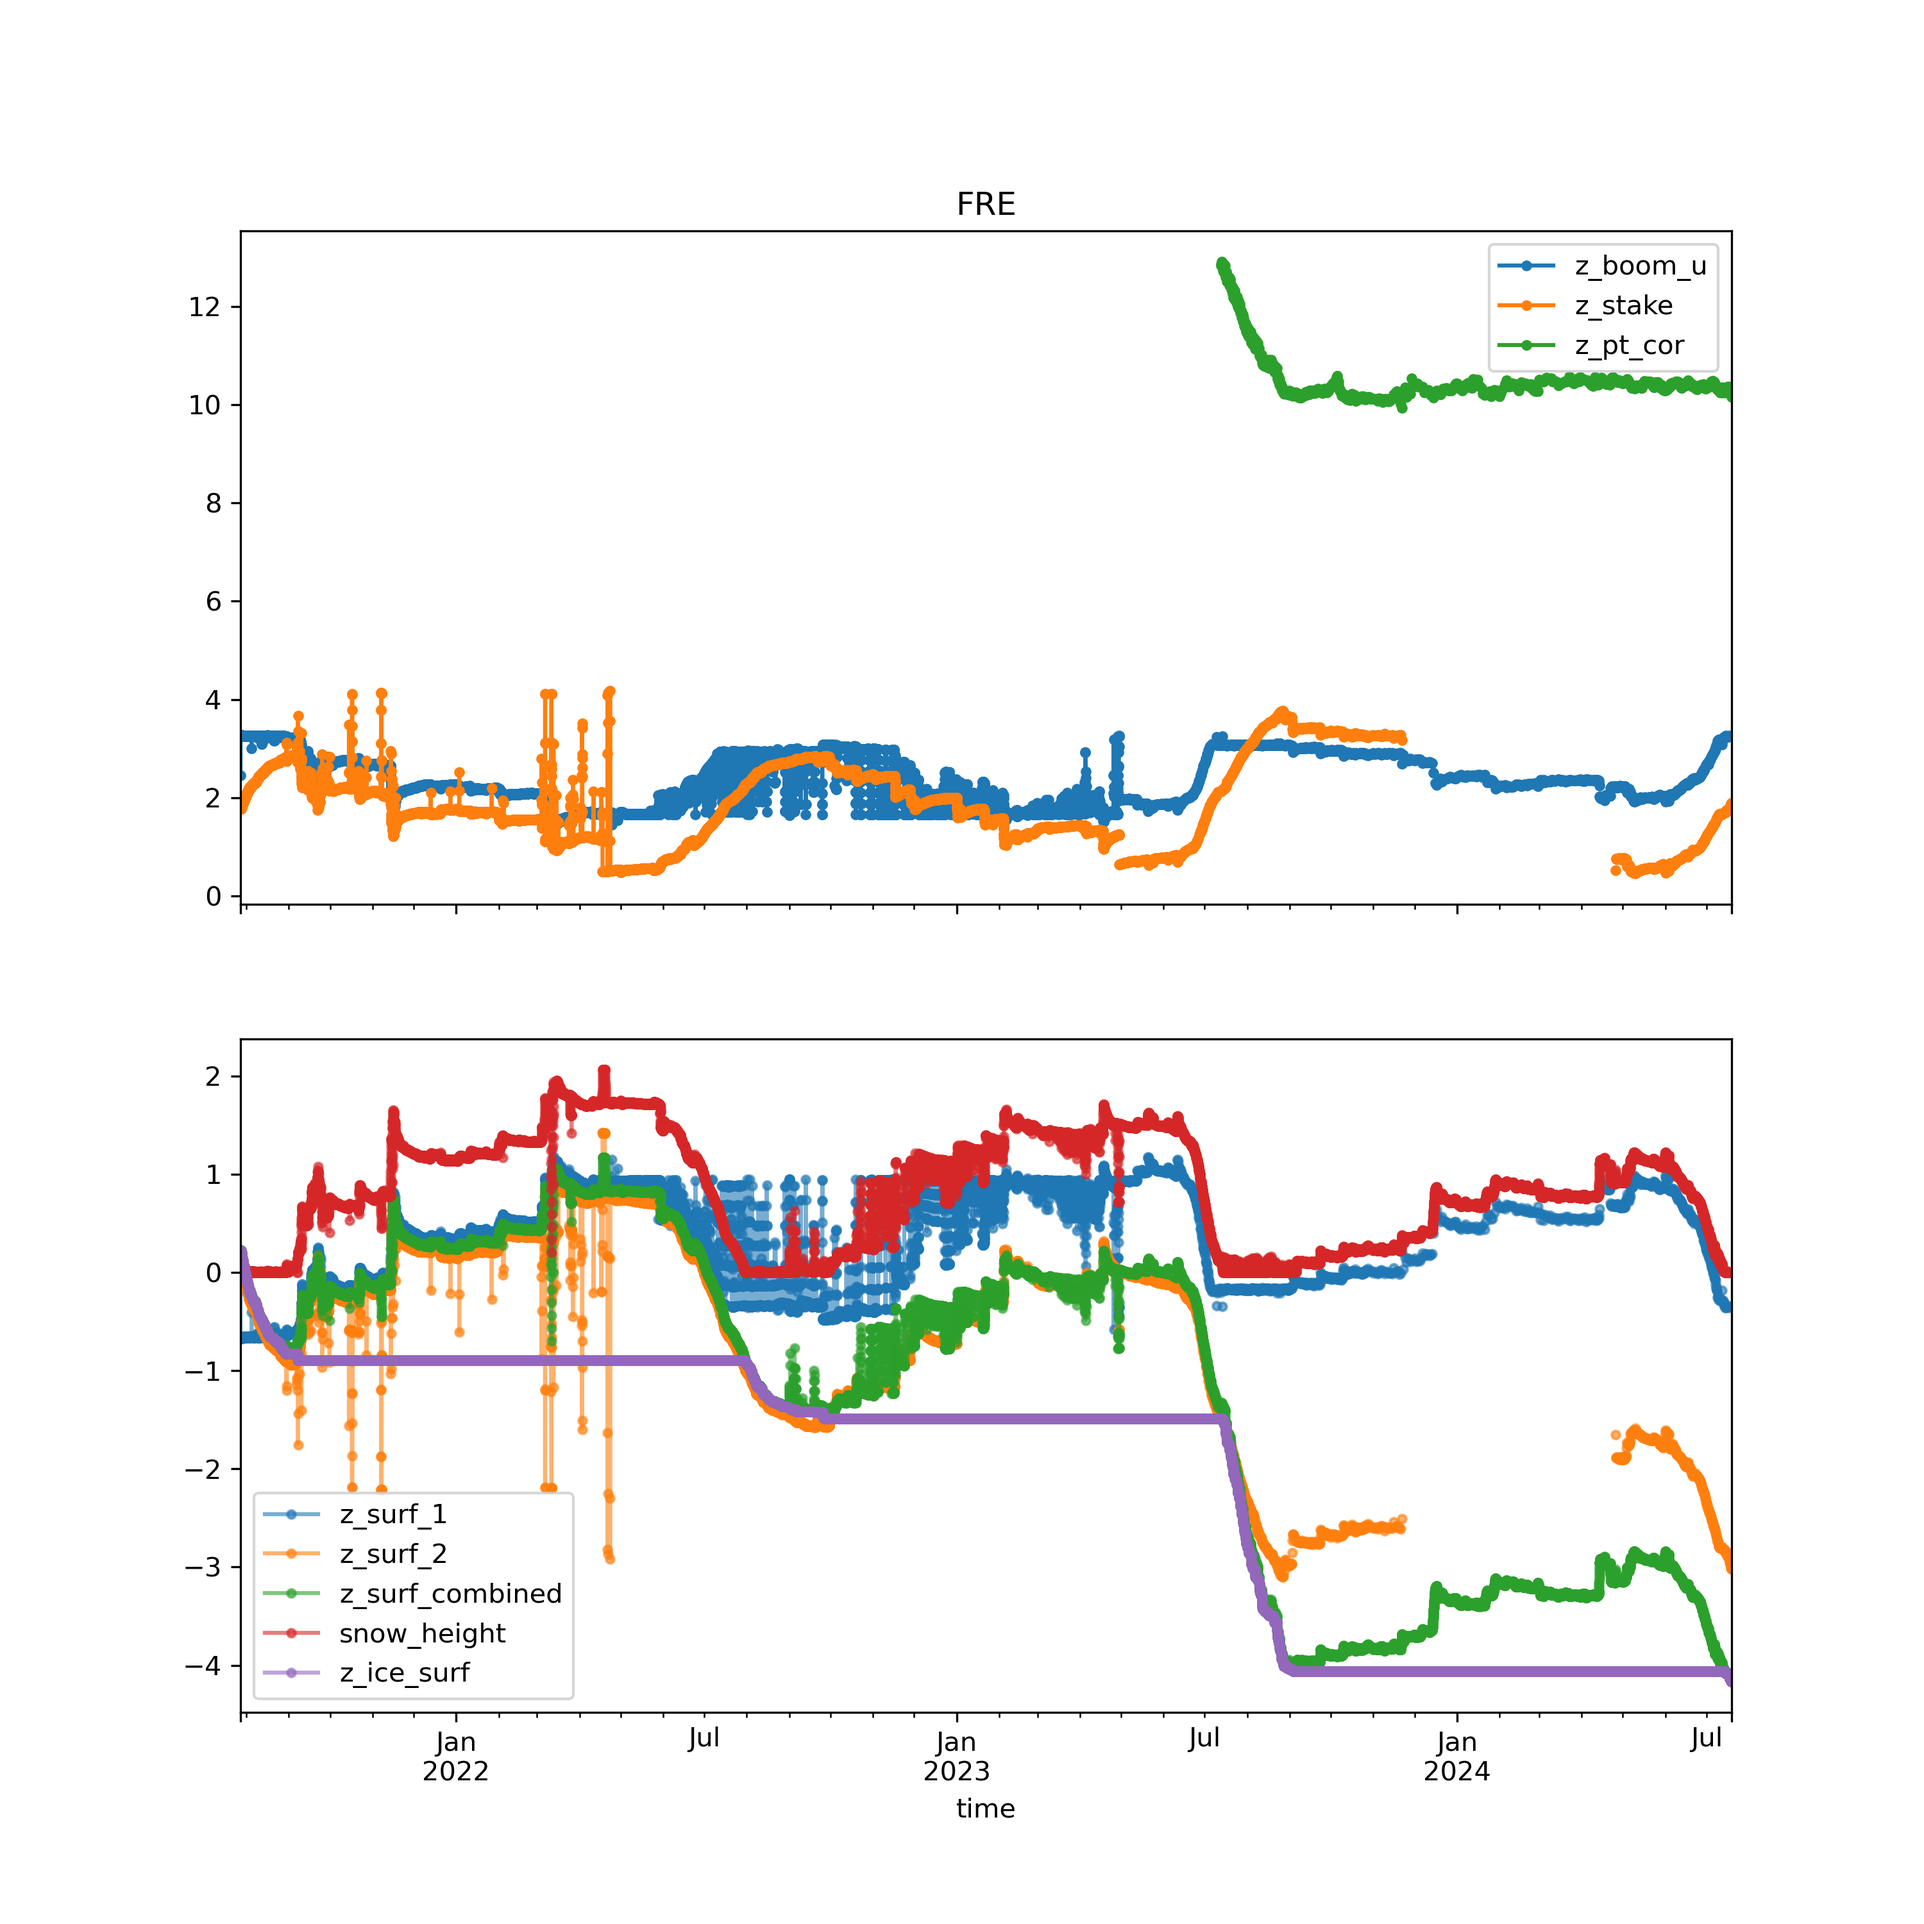
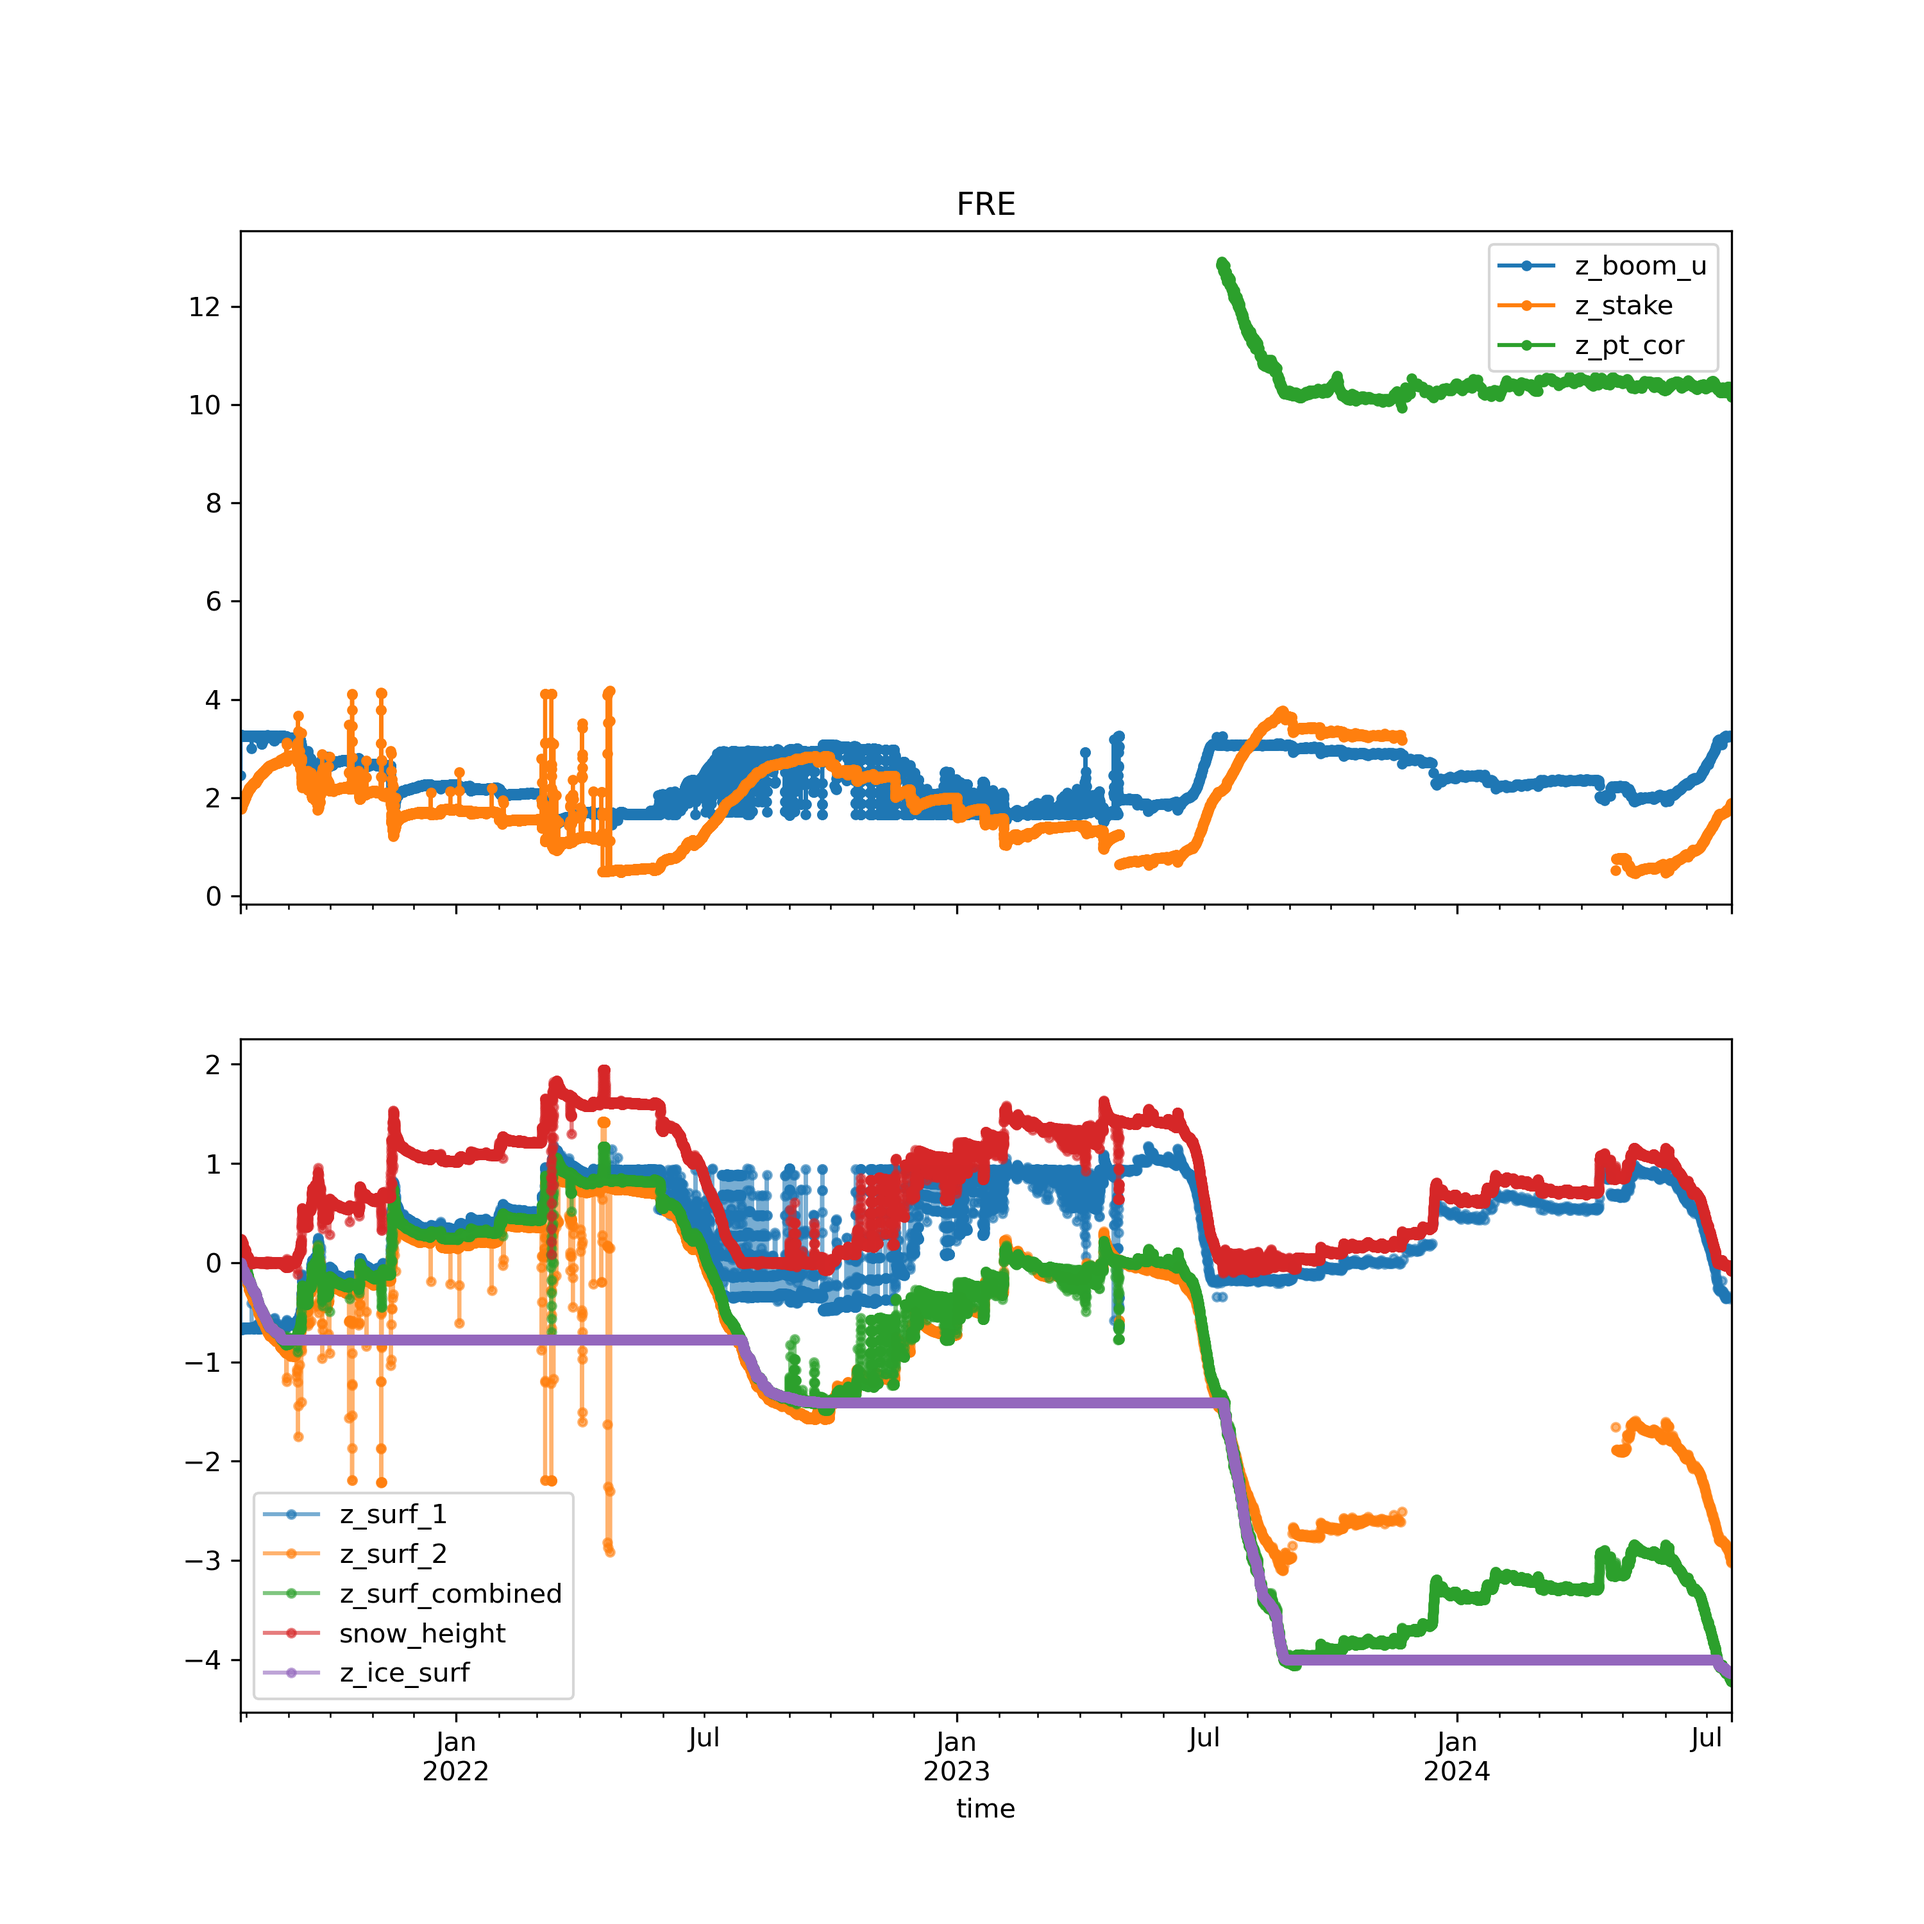
more surface height evaluations

Changed region(s): [[0.124, 0.558, 0.899, 0.775], [0.651, 0.713, 0.899, 0.899]]

diff --git a/evaluate_surface_adjustment.py b/evaluate_surface_adjustment.py
@@ -16,7 +16,7 @@ from pypromice.process.L2toL3 import process_surface_height
 from pypromice.process.get_l2 import get_l2
 from pypromice.process.join_l2 import join_l2
 from pypromice.process.join_l2 import loadArr
-
+logging.getLogger('matplotlib.font_manager').disabled = True
 logging.basicConfig(
     level=logging.DEBUG,
     format="%(asctime)s [%(levelname)s] %(message)s",
@@ -33,8 +33,8 @@ path_l2 = 'L2_test/'
     
 # plt.close('all')
 
-for station in ['KPC_L']:
-# for station in df_metadata.station_id[[5]]: 
+# for station in ['KPC_L']:
+for station in df_metadata.station_id[[27]]:
         
     config_file_tx = path_to_l0 + '/tx/config/{}.toml'.format(station)
     config_file_raw = path_to_l0 + '/raw/config/{}.toml'.format(station)
@@ -89,12 +89,15 @@ for station in ['KPC_L']:
     l3 = process_surface_height(l2, station_config).to_dataframe()
 
     fig, ax = plt.subplots(2,1, sharex=True, figsize=(10,10))
-    var_list = [v for v in ['z_surf_1','z_surf_2','z_surf_combined','snow_height','z_ice_surf',] if v in l3.columns]
+    var_list = [v for v in ['z_surf_1', 'z_surf_1_adj','z_surf_2_adj','z_surf_combined','snow_height','z_ice_surf',] if v in l3.columns]
     l3[var_list].plot(ax=ax[1],marker='.',alpha=0.6)
     ax[0].set_title(station)
+    ax[1].grid()
     
     var_list = [v for v in ['z_boom_u','z_boom_l','z_stake','z_pt_cor'] if v in l3.columns]
     l3[var_list].plot(ax=ax[0],marker='.')
+    ax[0].grid()
+
     fig.savefig('figures/surface_height_assessment/'+station+'.png', dpi=300)
 
 
